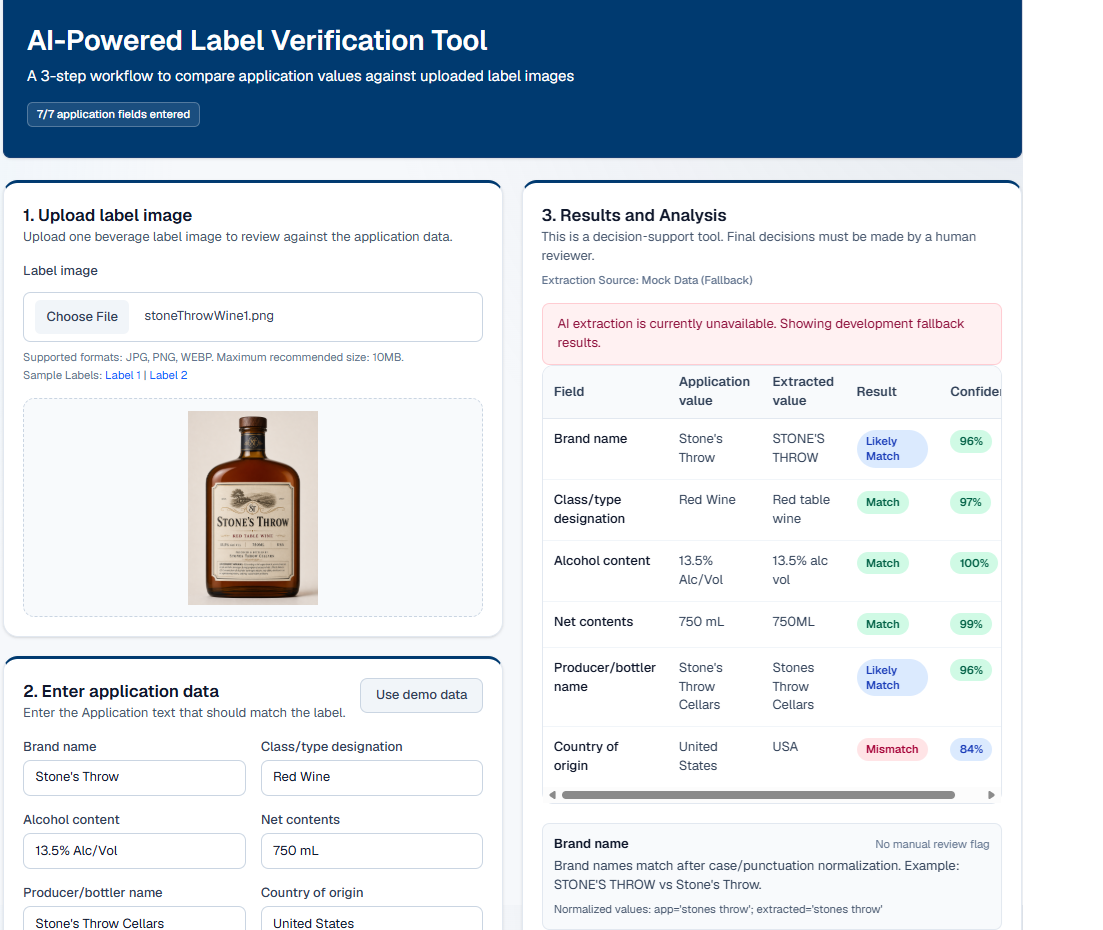
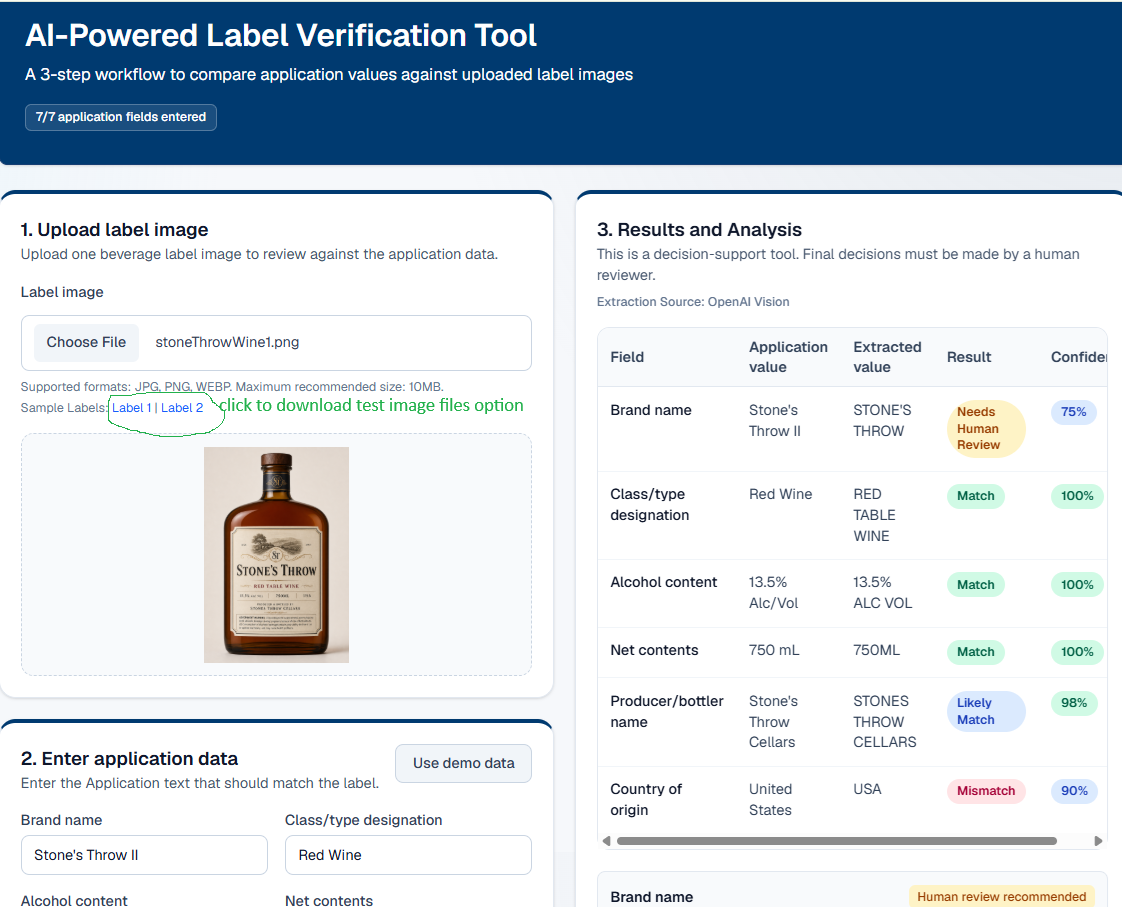
chore: documentation improvements

diff --git a/README.md b/README.md
@@ -4,6 +4,8 @@ This repository contains a functional standalone prototype designed to evaluate 
 
 ![AI-Powered Label Verification Tool Dashboard Interface Preview](public/app-screenshot.png)
 
+> 💡 **Quick-Start Tip:** To evaluate the system without searching for sample files, the interface includes direct **Sample Label shortcuts** right below the upload area. Click *Label 1* or *Label 2* to instantly download valid test images.
+
 **Live System URL:** `https://ttb.myappnow.net`  
 **Core Specification:** [Product Requirements Document](docs/PRD.md)
 
